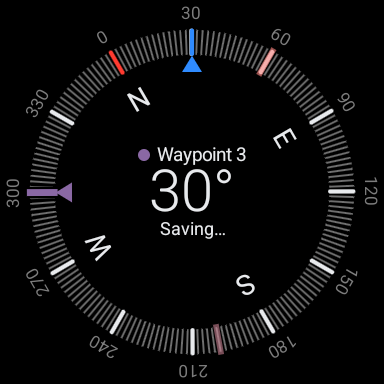
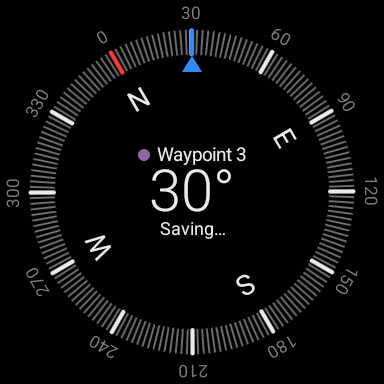
Pictures on both round sizes: True north switched on without the permission (dialog, declined, MAG), and the saving states; matrix: Saving… and No GPS fix with the position in hand over 10 s old
Claude-Session: https://claude.ai/code/session_01Uph7YehLtr2NPXweYH2Zkf

diff --git a/docs/screenshots/README.md b/docs/screenshots/README.md
@@ -36,12 +36,15 @@ Every picture here is a capture from an emulator, taken on 2026-10-13 from the d
 | `Needs access to` / `precise location` on the compass | `log-needs-access` | `permission`: `Use precise location` switched off in the dialog, `While using app` |
 | The same on the waypoints band | `waypoints-needs-access` | `permission`: `Log here`, then `Keep approximate location` |
 | The same under `Show coordinates` | `settings-needs-access` | `permission`: the row tapped with only approximate location granted |
-| `Saving…` | `log-saving` | `log`: a press 1.2 s after the app starts, before the first fix |
+| `Saving…` | `log-saving` | `log`: Home for 12 s, so the position in hand is over 10 s old, the app opened again and a press 0.6 s later, before a new position |
 | `Saved Waypoint N` and the accuracy | `log-saved` | `log`: the same press, when the confirming green shows |
-| `No GPS fix` / `Try again outdoors` | `log-no-gps-fix` | `log`: a double tap on the dial (two `input tap`) followed at once by Home, location off while the app is off screen, 23 s, location on, the app opened again (the picture is taken while it opens) |
+| `No GPS fix` / `Try again outdoors` | `log-no-gps-fix` | `log`: Home for 12 s and the app opened again (no position in hand), then 0.6 s later a double tap on the dial (two `input tap`) followed at once by Home, location off while the app is off screen, 23 s, location on, the app opened again (the picture is taken while it opens) |
 | `Location is off` | `log-location-off` | `log`: location off, Home and back, a press |
 | `Couldn't save` | `log-couldnt-save` | `log`: `run-as ... chmod 440 databases/waypoints.db` with the app stopped, start, a press; the file is put back to 660 |
 | The status band on the waypoints screen | `waypoints-saved-band` | `waypoints`: `Log here` tapped |
+| `True north` switched on without the permission: the system's dialog | `truenorth-dialog` | `truenorth`: wiped data, settings, `True north` off and tapped on again |
+| The switch on after the dialog was declined | `truenorth-declined-settings` | `truenorth`: `Don’t allow` |
+| The compass after it: magnetic, `MAG` | `truenorth-declined-compass` | `truenorth`: one swipe back to the compass |
 
 ## Coordinates
 
